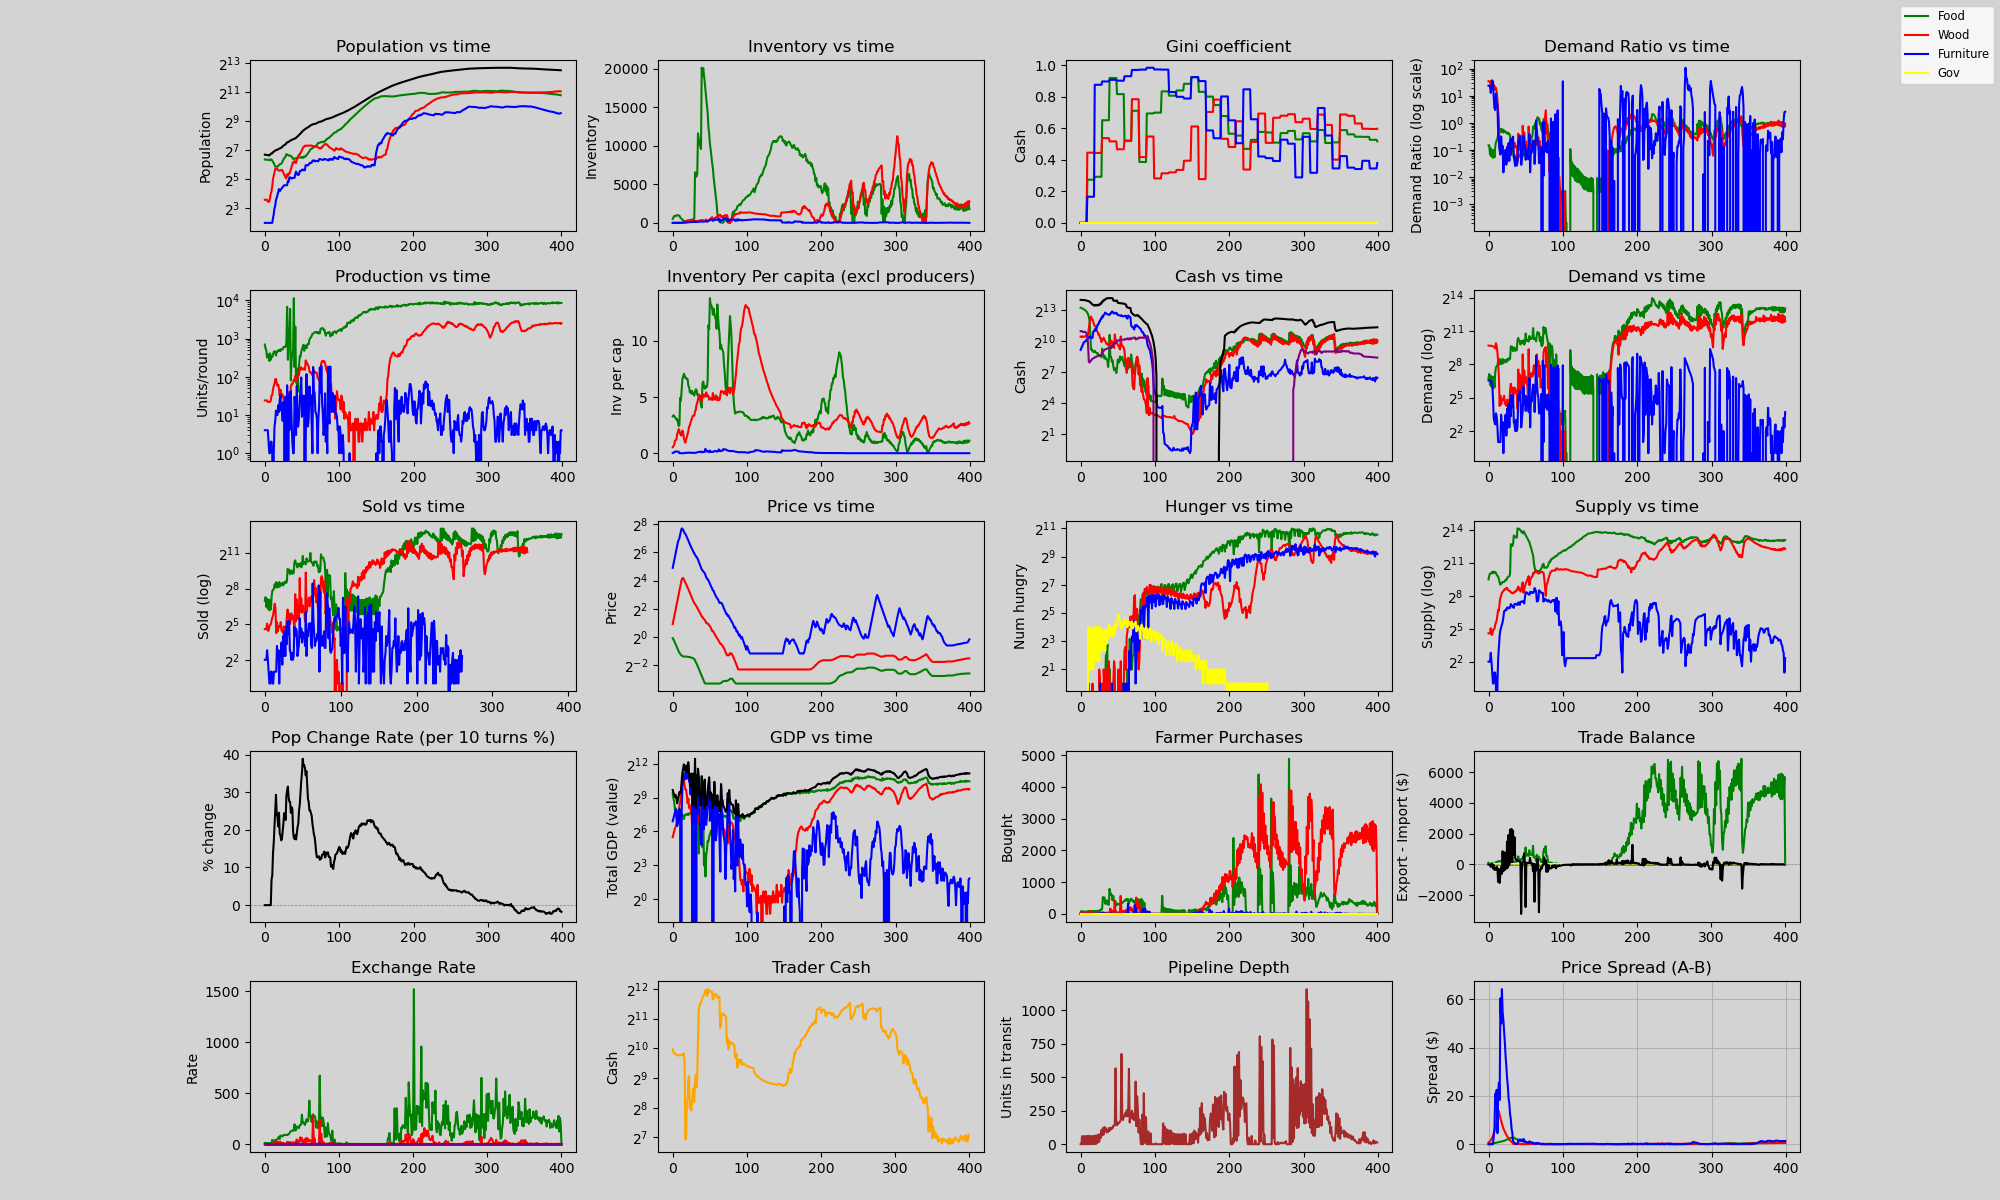
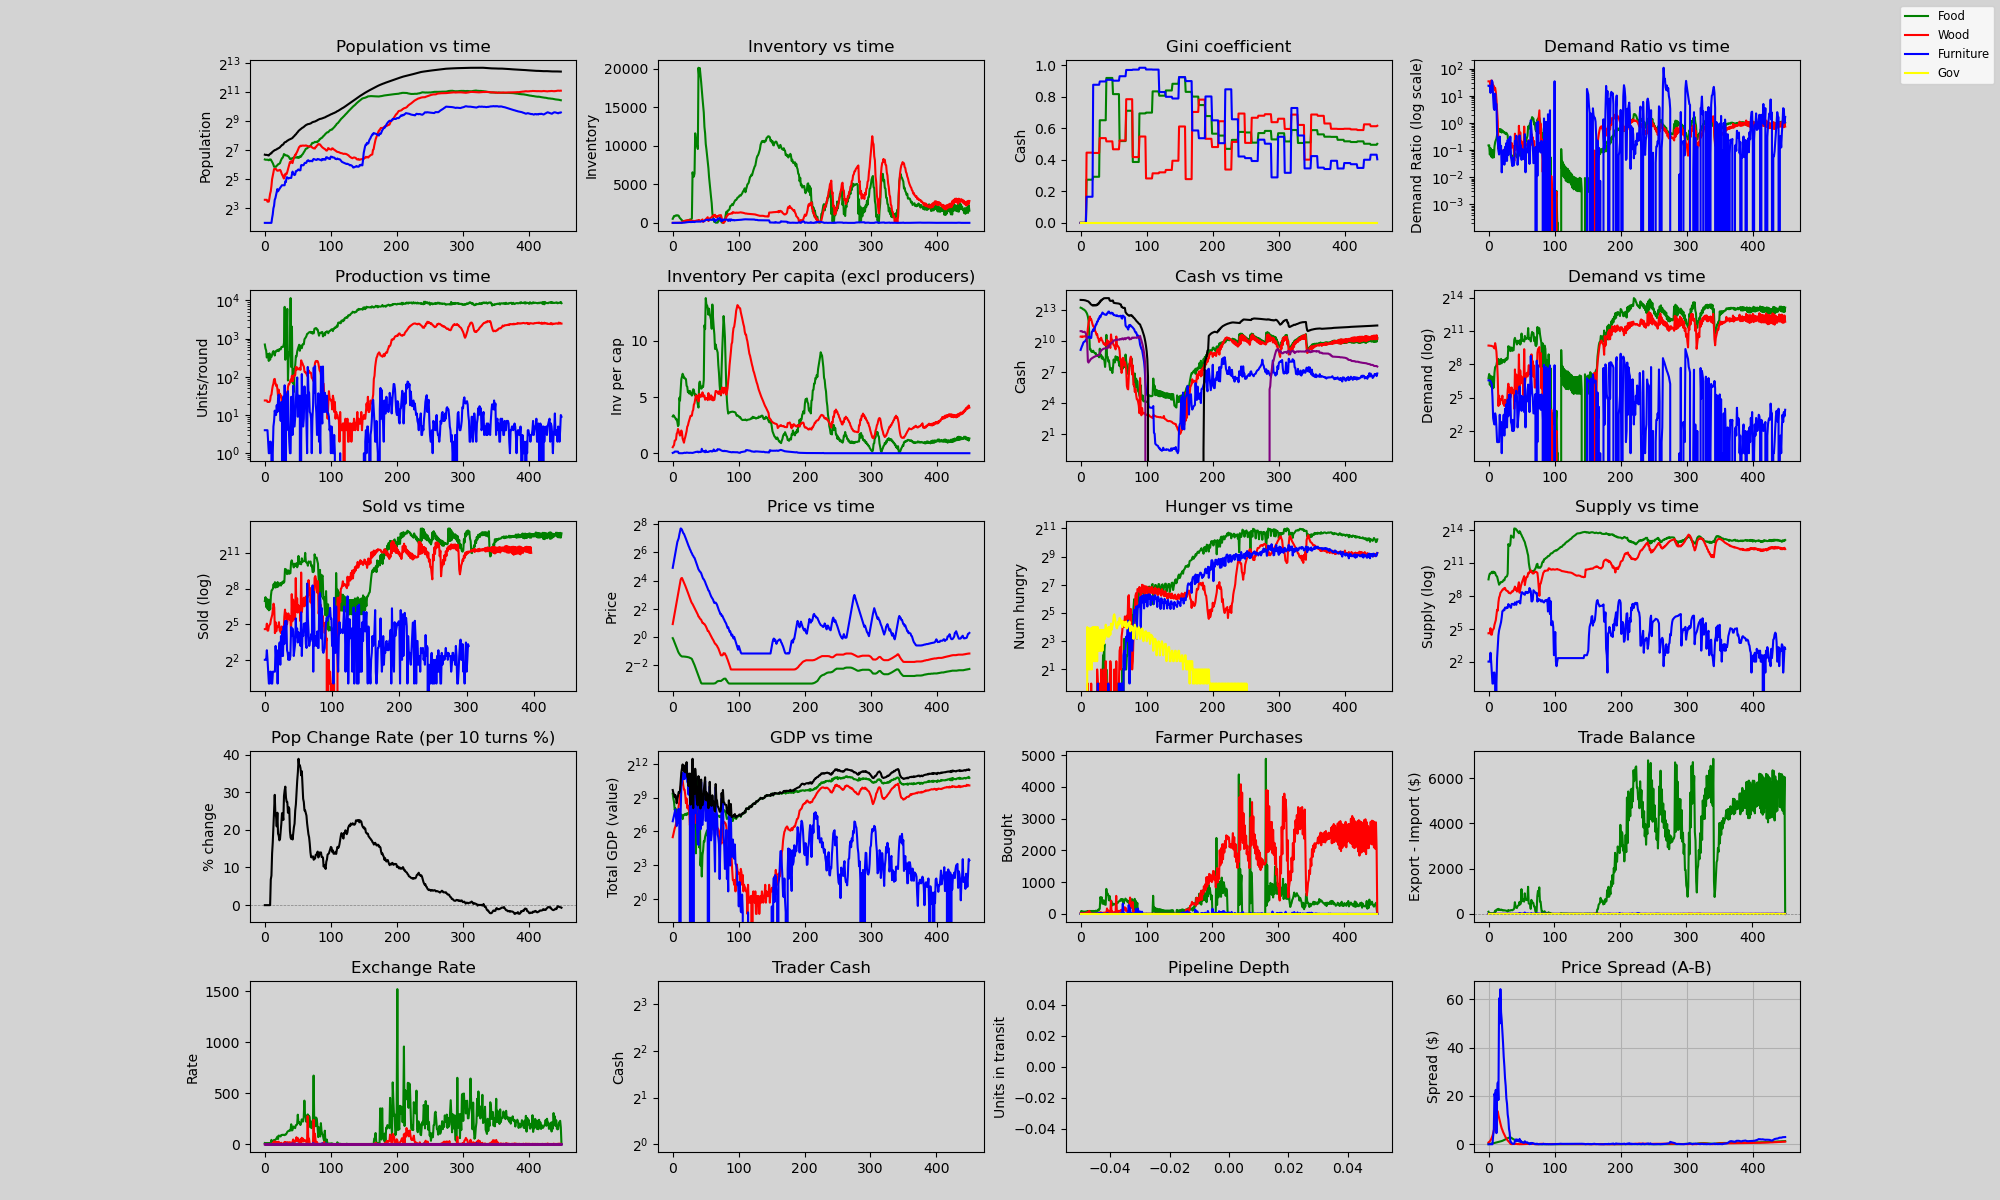
cached random

diff --git a/bench_phase2.py b/bench_phase2.py
@@ -1,0 +1,44 @@
+#!/usr/bin/env python3
+"""Benchmark Phase 2: cached random optimization."""
+import random
+import sys
+import time
+sys.path.insert(0, '.')
+from goods import Goods
+from logger import logInit
+from econsim_two_region import foreign_sell
+import region as _r
+
+logInit()
+random.seed(42)
+
+rA = _r.Region('Region_A', t=0, number_of_agents=110,
+               profession_distribution={Goods.food: 0.753, Goods.wood: 0.110, Goods.furniture: 0.037})
+rB = _r.Region('Region_B', t=0, number_of_agents=110,
+               profession_distribution={Goods.food: 0.50, Goods.wood: 0.35, Goods.furniture: 0.05})
+rA.recipes[Goods.food]['production'] *= 2
+rB.recipes[Goods.wood]['production'] *= 2
+rA.destination_region = rB
+rB.destination_region = rA
+for trader in rA.agents:
+    if trader.is_trader: trader.destination_region = rB
+for trader in rB.agents:
+    if trader.is_trader: trader.destination_region = rA
+
+def process_transport(t, ra, rb):
+    for trader in ra.agents:
+        if trader.is_trader: trader._process_pipeline()
+    for trader in rb.agents:
+        if trader.is_trader: trader._process_pipeline()
+
+time_steps = 50
+t0 = time.time()
+for t in range(1, time_steps + 1):
+    rA.step(t)
+    rB.step(t)
+    process_transport(t, rA, rB)
+    foreign_sell(t, rA, rB)
+    foreign_sell(t, rB, rA)
+t1 = time.time()
+print(f'Phase 2 cached random ({time_steps} cycles): {t1-t0:.3f}s')
+print(f'Per-turn: {(t1-t0)/time_steps:.4f}s')

diff --git a/region.py b/region.py
@@ -313,8 +313,6 @@ class Region:
         self.total_cash_log.append(self._total_cash())
         self._log_population_rate()
 
-        self._log_trade_metrics(t)
-
         for p in self.goods:
             for g in self.goods:
                 self.bought_log[p][g].append(0)
